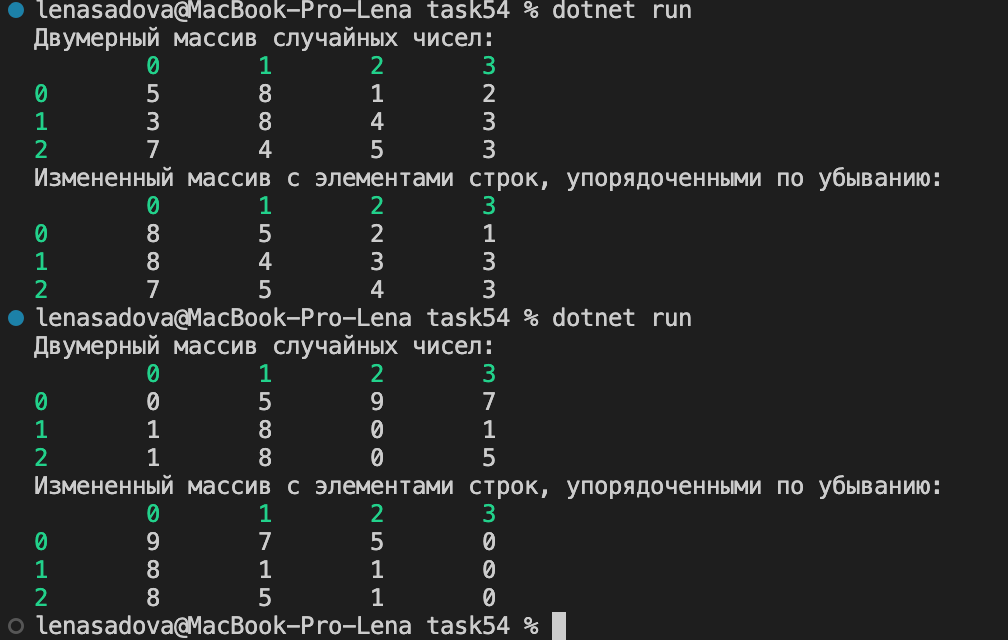
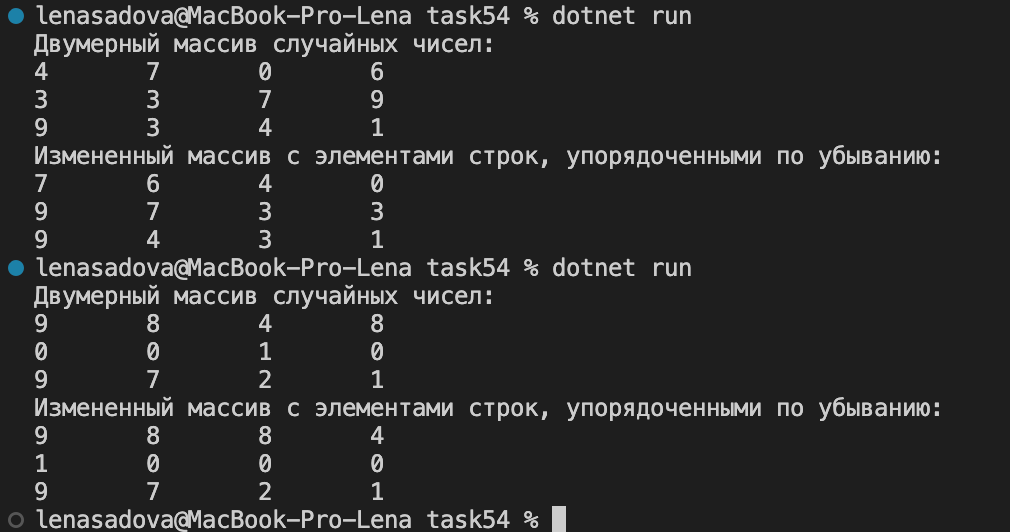
Корректировка task 54, 56, 58

Changed region(s): [[0.0, 0.0, 0.9534, 1.0]]

diff --git a/task54/Program.cs b/task54/Program.cs
@@ -22,24 +22,10 @@ int[,] GenerateArray(int height, int weight)
     return generatedArray;
 }
 
-void PrintColorData(string data)
+void Print2DArray(int[,] inputArray)
 {
-    Console.ForegroundColor = ConsoleColor.Green;
-    Console.Write(data);
-    Console.ResetColor();
-}
-
-void ShowArray(int[,] inputArray)
-{
-    PrintColorData($" \t");
-    for (int i = 0; i < inputArray.GetLength(1); i++)
-    {
-        PrintColorData($"{i}\t");
-    }
-    Console.WriteLine();
     for (int i = 0; i < inputArray.GetLength(0); i++)
     {
-        PrintColorData($"{i}\t");
         for (int j = 0; j < inputArray.GetLength(1); j++)
         {
             Console.Write($"{inputArray[i, j]}\t");
@@ -58,9 +44,9 @@ int[,] GetDecreasedArray(int[,] incomingArray)
             {
                 if (incomingArray[i, k] < incomingArray[i, k + 1])
                 {
-                    int temp = incomingArray[i, k + 1];
+                    int buff = incomingArray[i, k + 1];
                     incomingArray[i, k + 1] = incomingArray[i, k];
-                    incomingArray[i, k] = temp;
+                    incomingArray[i, k] = buff;
                 }
             }
         }
@@ -70,8 +56,8 @@ int[,] GetDecreasedArray(int[,] incomingArray)
 
 Console.WriteLine($"Двумерный массив случайных чисел:");
 int[,] generatedArray = GenerateArray(3, 4);
-ShowArray(generatedArray);
+Print2DArray(generatedArray);
 Console.WriteLine($"Измененный массив с элементами строк, упорядоченными по убыванию:");
 int[,] decreasedArray = GetDecreasedArray(generatedArray);
-ShowArray(decreasedArray);
+Print2DArray(decreasedArray);
 

diff --git a/task56/Program.cs b/task56/Program.cs
@@ -21,24 +21,10 @@ int[,] GenerateArray(int height, int weight)
     return generatedArray;
 }
 
-void PrintColorData(string data)
+void Print2DArray(int[,] inputArray)
 {
-    Console.ForegroundColor = ConsoleColor.Green;
-    Console.Write(data);
-    Console.ResetColor();
-}
-
-void ShowArray(int[,] inputArray)
-{
-    PrintColorData($" \t");
-    for (int i = 0; i < inputArray.GetLength(1); i++)
-    {
-        PrintColorData($"{i}\t");
-    }
-    Console.WriteLine();
     for (int i = 0; i < inputArray.GetLength(0); i++)
     {
-        PrintColorData($"{i}\t");
         for (int j = 0; j < inputArray.GetLength(1); j++)
         {
             Console.Write($"{inputArray[i, j]}\t");
@@ -86,7 +72,7 @@ void GetNumberOfStringWitMinSum(int[] array)
             indexMin = i;
         }
     }
-    Console.WriteLine($"Строка с наименьшей суммой элементов - номер {indexMin + 1}");
+    Console.WriteLine($"Строка с наименьшей суммой элементов в двумерном массиве - номер {indexMin + 1}");
 }
 
 void PrintArray(int[] arrayToPrint)
@@ -101,7 +87,7 @@ void PrintArray(int[] arrayToPrint)
 
 Console.WriteLine($"Двумерный массив случайных чисел:");
 int[,] generatedArray = GenerateArray(3, 4);
-ShowArray(generatedArray);
+Print2DArray(generatedArray);
 int[] stringsArray = GetArrayOfStringsSum(generatedArray);
 Console.WriteLine($"Одномерный массив сумм элементов строк:");
 PrintArray(stringsArray);
